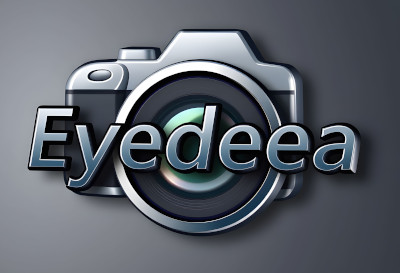
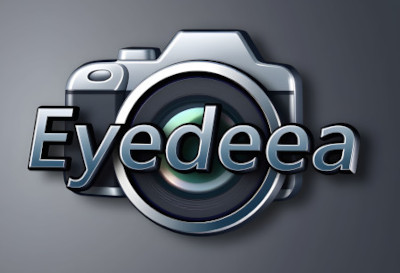
readme updates

diff --git a/README.md b/README.md
@@ -35,9 +35,7 @@ I also declutter my collection by removing duplicates and keeping only meaningfu
 Storing photos efficiently is great, but what's the use if I can't easily view and share them? I don’t want to just send folders of images via email—I want a seamless way to rediscover and showcase my memories.
 
 ## The Solution: Eyedeea Photos
-Eyedeea Photos             |  Eyedeea Photos
-:-------------------------:|:-------------------------:
-![Eyedeea Photos](graphics/Eyedeea_Photos_m_logo.png) | ![Eyedeea Photos](graphics/eyedeea_photos_2_m.jpg)
+![Eyedeea Photos](graphics/eyedeea_two_logos.png)
 
 **Eyedeea Photos** is an app designed to bring forgotten memories back to life. It integrates with **Synology Photos** to display random photos from the collection. Here’s how it works:
 - **Scan:** Interacts with **Synology Photos API** to extract metadata (filename, path, date taken, geolocation, album name, etc.).
